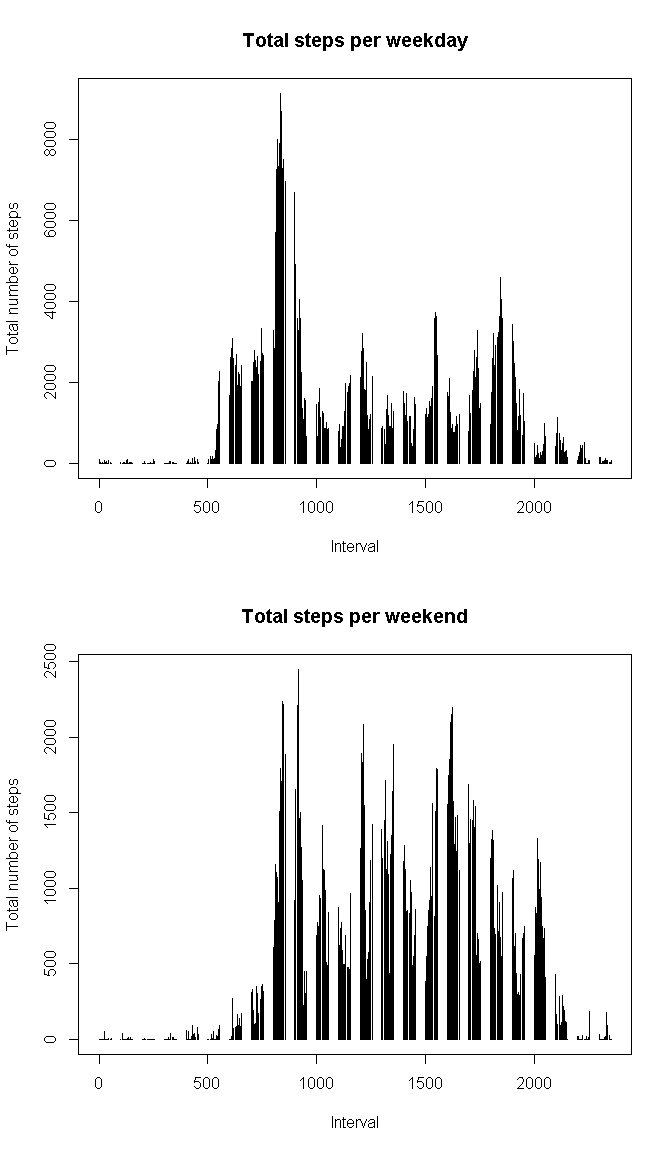
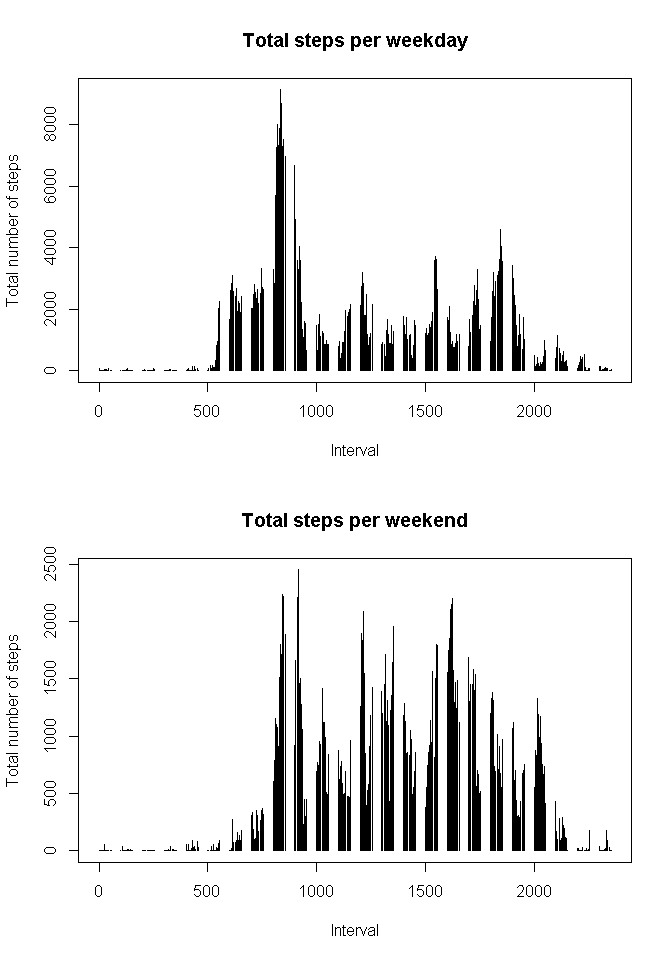
Commit # 5
Changes in plots height for the last question and adjustments in text
messages

diff --git a/PA1_template.html b/PA1_template.html
@@ -230,13 +230,13 @@ median(sum_file_WONA$Freq)</code></pre>
       plot.ts(dt_weekend$interval, dt_weekend$steps, 
         type=&quot;h&quot;, main=&quot;Total steps per weekend&quot;, 
         xlab=&quot;Interval&quot;,ylab=&quot;Total number of steps&quot;)</code></pre>
[2 lines of base64/hex data omitted]
 <pre class="r"><code>      x &lt;- max(dt_weekend$steps)
       y &lt;- max(dt_weekday$steps)</code></pre>
 <div id="comparison-of-maximum-number-os-steps-from-weekend-against-weekdays" class="section level3">
 <h3>Comparison of maximum number os steps from weekend against weekdays</h3>
-<div id="the-range-os-steps-per-weekday-is-much-higher-than-during-the-weekdays.-here-is-the-maximum-number-of-steps-during-weekend-9130-compared-with-the-maximum-number-of-steps-during-weekend-2450" class="section level4">
-<h4>The range os steps per weekday is much higher than during the weekdays. Here is the maximum number of steps during weekend 9130 compared with the maximum number of steps during weekend 2450</h4>
+<div id="the-maximum-number-os-steps-during-weekdays-is-much-higher-than-the-number-of-steps-during-the-weekend.-here-is-the-maximum-number-of-steps-during-weekdays-9130-compared-to-the-maximum-number-of-steps-during-weekend-2450" class="section level4">
+<h4>The maximum number os steps during weekdays is much higher than the number of steps during the weekend. Here is the maximum number of steps during weekdays 9130 compared to the maximum number of steps during weekend 2450</h4>
 </div>
 </div>
 </div>

diff --git a/PA1_template.md b/PA1_template.md
@@ -241,4 +241,4 @@ Here are the differences between mean and medians considering the replacement of
 ```
 ###Comparison of maximum number os steps from weekend against weekdays
 
-####The range os steps per weekday is much higher than during the weekdays. Here is the maximum number of steps during weekend 9130 compared with the maximum number of steps during weekend 2450
+####The maximum number os steps during weekdays is much higher than the number of steps during the weekend. Here is the maximum number of steps during weekdays 9130 compared to the maximum number of steps during weekend 2450
